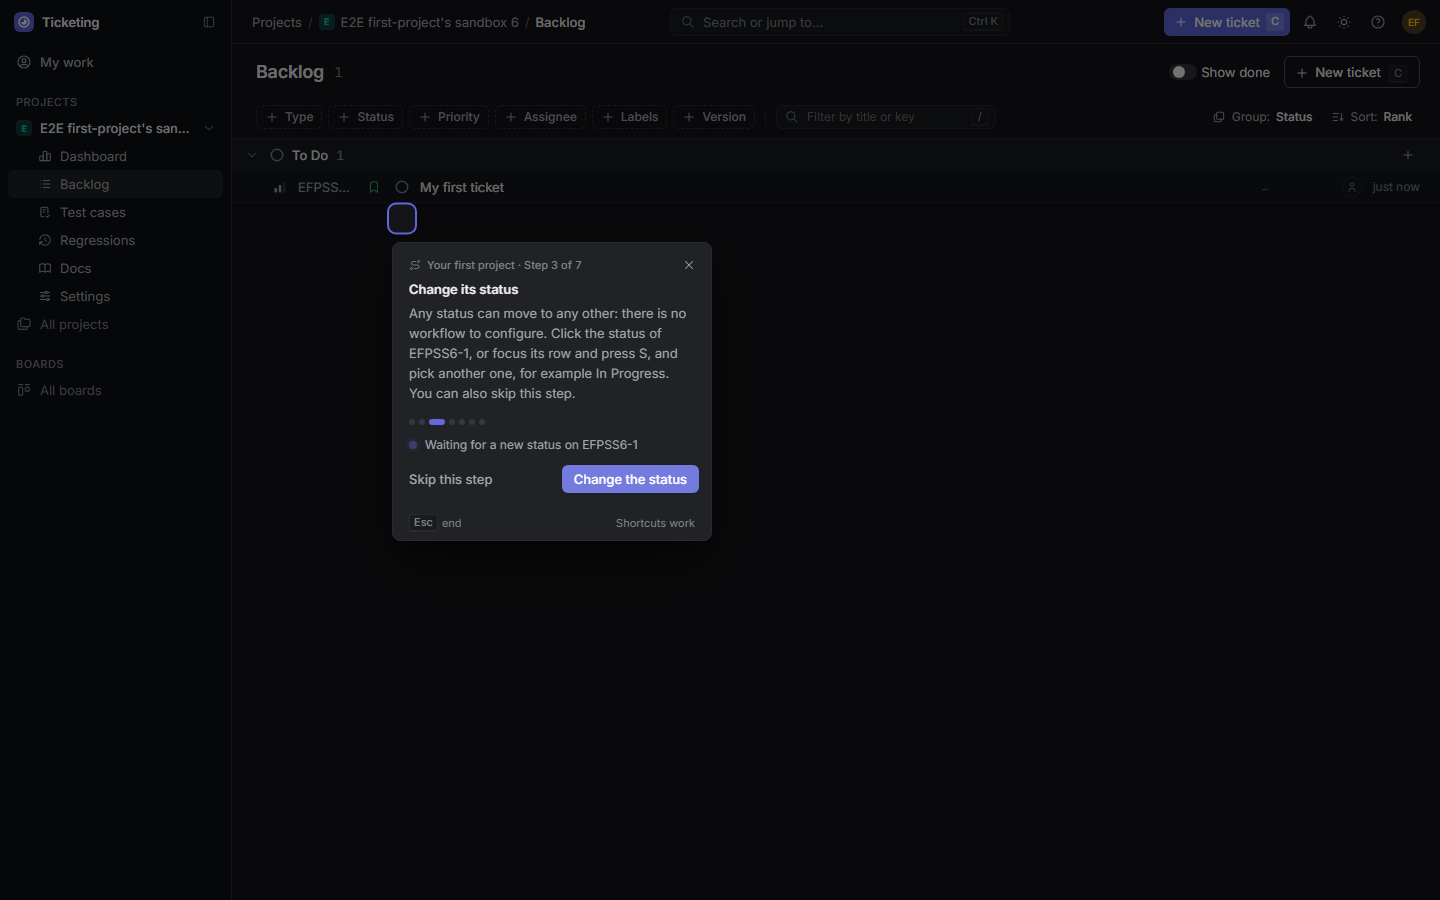
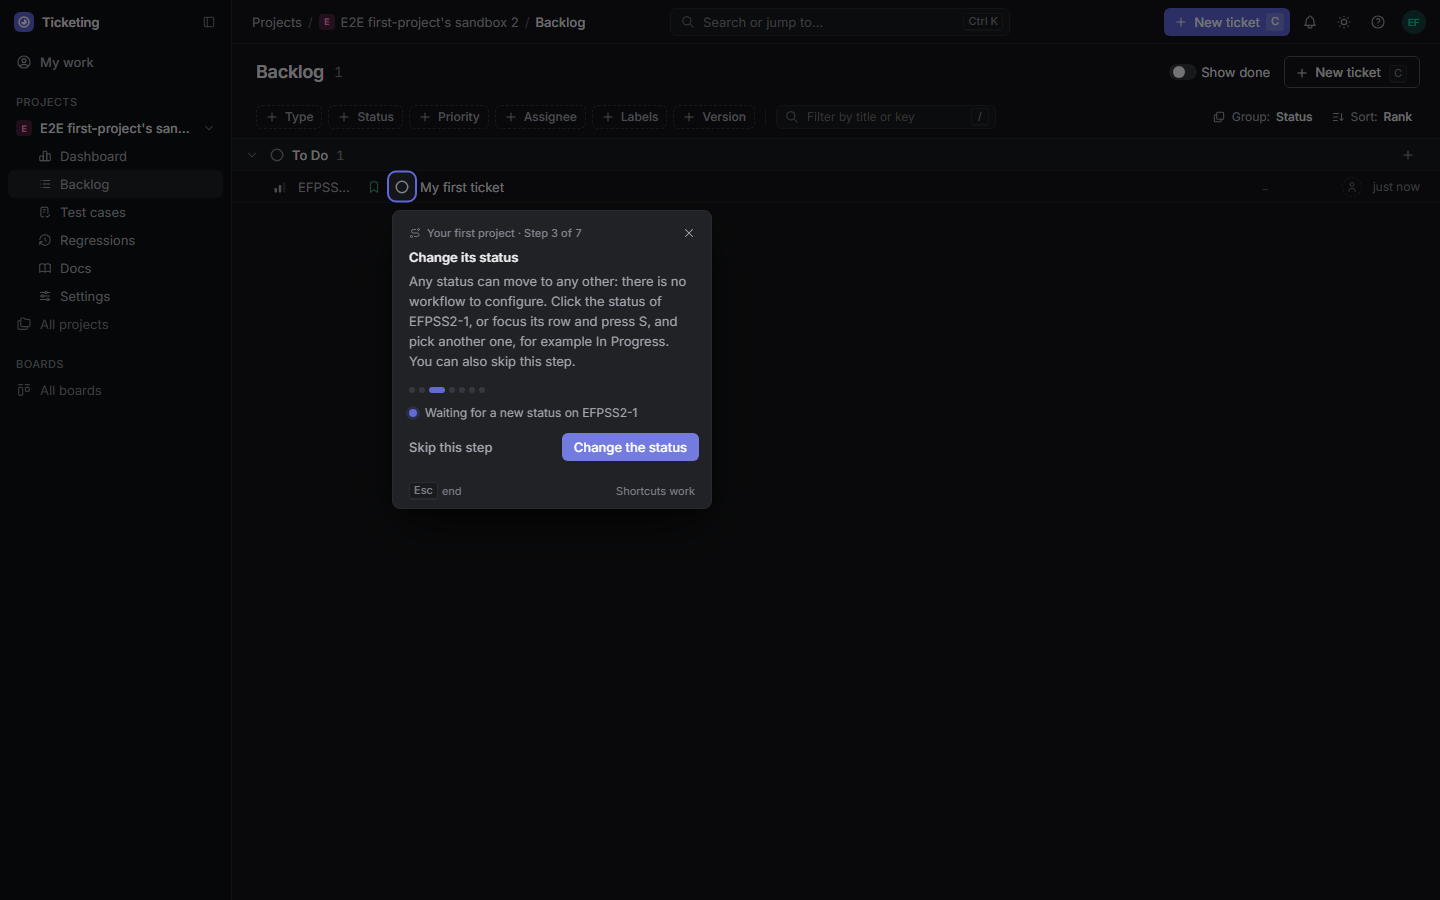
TKT-80: Empty-state and welcome entries, boards list resumes at Create a board, spotlight follows layout shifts

Changed region(s): [[0.25, 0.1867, 0.5, 0.6222], [0.9688, 0.0, 1.0, 0.0311]]

diff --git a/e2e/tests/onboarding/first-project.spec.ts b/e2e/tests/onboarding/first-project.spec.ts
@@ -1,7 +1,10 @@
 import { APIRequestContext, Locator, Page } from '@playwright/test';
+import { WELCOME_GUIDE } from '@onboarding/guides/welcome';
 import { Onboarding } from '@onboarding/onboarding.models';
 import { FIRST_PROJECT_TOUR } from '@onboarding/walkthrough/first-project.tour';
 import { expect, test } from '../../support/fixtures';
+import { uniqueProjectKey } from '../../support/api';
+import { xsrfToken } from '../../support/guides';
 import { signInAs } from '../../support/session';
 import { PASSWORD, seedUser } from '../identity/identity';
 
@@ -17,6 +20,16 @@ interface Ticket {
 async function json<T>(request: APIRequestContext, path: string): Promise<T> {
     const response = await request.get(`/api/v1${path}`);
     expect(response.ok(), `GET ${path} → ${response.status()}`).toBe(true);
+    return (await response.json()) as T;
+}
+
+/// A POST as the signed-in user of `request` (cookie session, XSRF header).
+async function postAs<T>(request: APIRequestContext, path: string, data: unknown): Promise<T> {
+    const response = await request.post(`/api/v1${path}`, {
+        data,
+        headers: { 'X-XSRF-TOKEN': await xsrfToken(request) },
+    });
+    expect(response.ok(), `POST ${path} → ${response.status()}`).toBe(true);
     return (await response.json()) as T;
 }
 
@@ -45,9 +58,11 @@ class Walkthrough {
     async startFromPalette(): Promise<void> {
         await this.page.keyboard.press('Control+k');
         await this.page.getByTestId('command-palette-input').fill('Your first project');
-        await expect(
-            this.page.getByTestId('palette-item-command:help.tour.first-project'),
-        ).toBeVisible();
+        const item = this.page.getByTestId('palette-item-command:help.tour.first-project');
+        await expect(item).toBeVisible();
+        for (let i = 0; i < 10 && (await item.getAttribute('aria-selected')) !== 'true'; i++)
+            await this.page.keyboard.press('ArrowDown');
+        await expect(item).toHaveAttribute('aria-selected', 'true');
         await this.page.keyboard.press('Enter');
     }
 
@@ -94,7 +109,10 @@ test.describe('"Your first project" walkthrough', () => {
         test.setTimeout(180_000);
         // Arrange
         const user = await seedUser(api, 'first-project');
-        const { context, page } = await signInAs(browser, { email: user.email, password: PASSWORD });
+        const { context, page } = await signInAs(browser, {
+            email: user.email,
+            password: PASSWORD,
+        });
         const walkthrough = new Walkthrough(page);
         await page.goto('/my-work');
         await expect(page.getByTestId('view-my-work.list')).toBeVisible();
@@ -231,7 +249,10 @@ test.describe('"Your first project" walkthrough', () => {
     }) => {
         // Arrange
         const user = await seedUser(api, 'first-project-pause');
-        const { context, page } = await signInAs(browser, { email: user.email, password: PASSWORD });
+        const { context, page } = await signInAs(browser, {
+            email: user.email,
+            password: PASSWORD,
+        });
         const walkthrough = new Walkthrough(page);
         await page.goto('/my-work');
         await expect(page.getByTestId('view-my-work.list')).toBeVisible();
@@ -268,6 +289,93 @@ test.describe('"Your first project" walkthrough', () => {
             })
             .toBe('Dismissed');
         expect(await ownedKeys(context.request)).toEqual([]);
+        await context.close();
+    });
+
+    test('the projects list empty state starts it at step 1', async ({ browser, api }) => {
+        // Arrange
+        const user = await seedUser(api, 'first-project-projects');
+        const { context, page } = await signInAs(browser, {
+            email: user.email,
+            password: PASSWORD,
+        });
+        const walkthrough = new Walkthrough(page);
+        await page.goto('/projects');
+        await expect(page.getByTestId('view-projects.list')).toBeVisible();
+        const projects = await json<{ items: unknown[] }>(context.request, '/projects');
+        test.skip(projects.items.length > 0, 'public projects of other specs fill the list');
+        const state = page.locator('tk-empty-state');
+
+        // Act
+        await state.getByTestId('empty-state-learn').click();
+
+        // Assert
+        await walkthrough.expectStep('create-project', 1);
+        await page.keyboard.press('Escape');
+        await expect(walkthrough.card).toBeHidden();
+        await context.close();
+    });
+
+    test('the boards list empty state resumes at Create a board for a user with a project and a ticket', async ({
+        browser,
+        api,
+    }) => {
+        // Arrange
+        const user = await seedUser(api, 'first-project-boards');
+        const { context, page } = await signInAs(browser, {
+            email: user.email,
+            password: PASSWORD,
+        });
+        const key = uniqueProjectKey('FP');
+        await postAs(context.request, '/projects', { key, name: `E2E ${key}` });
+        await postAs(context.request, `/projects/${key}/tickets`, {
+            title: 'My first ticket',
+            type: 'Technical',
+        });
+        const walkthrough = new Walkthrough(page);
+        await page.goto('/boards');
+        await expect(page.getByTestId('view-boards.list')).toBeVisible();
+        const boards = await json<{ items: unknown[] }>(context.request, '/boards');
+        test.skip(boards.items.length > 0, 'boards of other specs fill the list');
+        const learn = page.locator('tk-empty-state').getByTestId('empty-state-learn');
+        await expect(learn).toHaveText(/How boards work/);
+
+        // Act
+        await learn.click();
+        await expect(page.getByTestId('first-project-use')).toBeFocused();
+        await page.keyboard.press('Enter');
+
+        // Assert
+        await walkthrough.expectStep('create-board', 4);
+        await expect(walkthrough.card).toContainText(key);
+        await page.keyboard.press('Escape');
+        await expect(walkthrough.card).toBeHidden();
+        await context.close();
+    });
+
+    test('the welcome dialog’s Take the tour starts it for a user who cannot write anywhere', async ({
+        browser,
+        api,
+    }) => {
+        // Arrange
+        const user = await seedUser(api, 'first-project-welcome');
+        const { context, page } = await signInAs(
+            browser,
+            { email: user.email, password: PASSWORD },
+            { keepGuides: (g) => g.id === WELCOME_GUIDE.id },
+        );
+        const walkthrough = new Walkthrough(page);
+        await page.goto('/my-work');
+        await expect(page.getByTestId('welcome-dialog')).toBeVisible();
+
+        // Act
+        await page.keyboard.press('Enter');
+
+        // Assert
+        await expect(page.getByTestId('welcome-dialog')).toBeHidden();
+        await walkthrough.expectStep('create-project', 1);
+        await page.keyboard.press('Escape');
+        await expect(walkthrough.card).toBeHidden();
         await context.close();
     });
 });

diff --git a/web/src/app/core/onboarding/learn-actions.ts b/web/src/app/core/onboarding/learn-actions.ts
@@ -3,6 +3,7 @@ import { isHelpItemEnabled } from '../help/help-menu';
 import { HelpMenuRegistry } from '../help/help-menu.registry';
 import { TourAvailability } from './tour-availability';
 import { tourCommandId } from './tours/tour-catalogue';
+import { startFirstProjectWalkthrough } from './walkthrough/first-project.help';
 
 const FIRST_PROJECT_COMMAND_ID = tourCommandId('first-project');
 
@@ -33,7 +34,12 @@ export class LearnActions {
     await this.injector.get(GuidedTours).start(viewId);
   }
 
-  startWalkthrough(): void {
-    this.walkthrough()?.run();
+  /// Starts the walkthrough; skipOptional passes over the optional status step, so the boards
+  /// list resumes at Create a board for a user who already has a project and a ticket (D-140).
+  startWalkthrough(options: { readonly skipOptional?: boolean } = {}): void {
+    const item = this.walkthrough();
+    if (!item) return;
+    if (options.skipOptional) void startFirstProjectWalkthrough(this.injector, options);
+    else item.run();
   }
 }

diff --git a/web/src/app/features/boards/list/boards.view.ts b/web/src/app/features/boards/list/boards.view.ts
@@ -143,7 +143,7 @@ import { CreateBoardDialog, CreateBoardDialogData } from './create-board.dialog'
                 title="No boards yet"
                 description="A board pulls tickets from one or more project backlogs, like a sprint."
                 [learnLabel]="learn.canStartWalkthrough() ? 'How boards work' : null"
-                (learn)="learn.startWalkthrough()"
+                (learn)="learn.startWalkthrough({ skipOptional: true })"
               >
                 <button mat-flat-button type="button" (click)="openCreate()">New board</button>
               </tk-empty-state>

diff --git a/web/src/app/core/onboarding/engine/tour-session.ts b/web/src/app/core/onboarding/engine/tour-session.ts
@@ -679,6 +679,7 @@ export class TourSession {
     if (this.steps.some(isActionStep)) {
       this.coverObserver = new MutationObserver(() => {
         if (this.isAction()) this.refreshCovered();
+        this.scheduleMeasure();
       });
       this.coverObserver.observe(this.document.body, { childList: true, subtree: true });
     }
